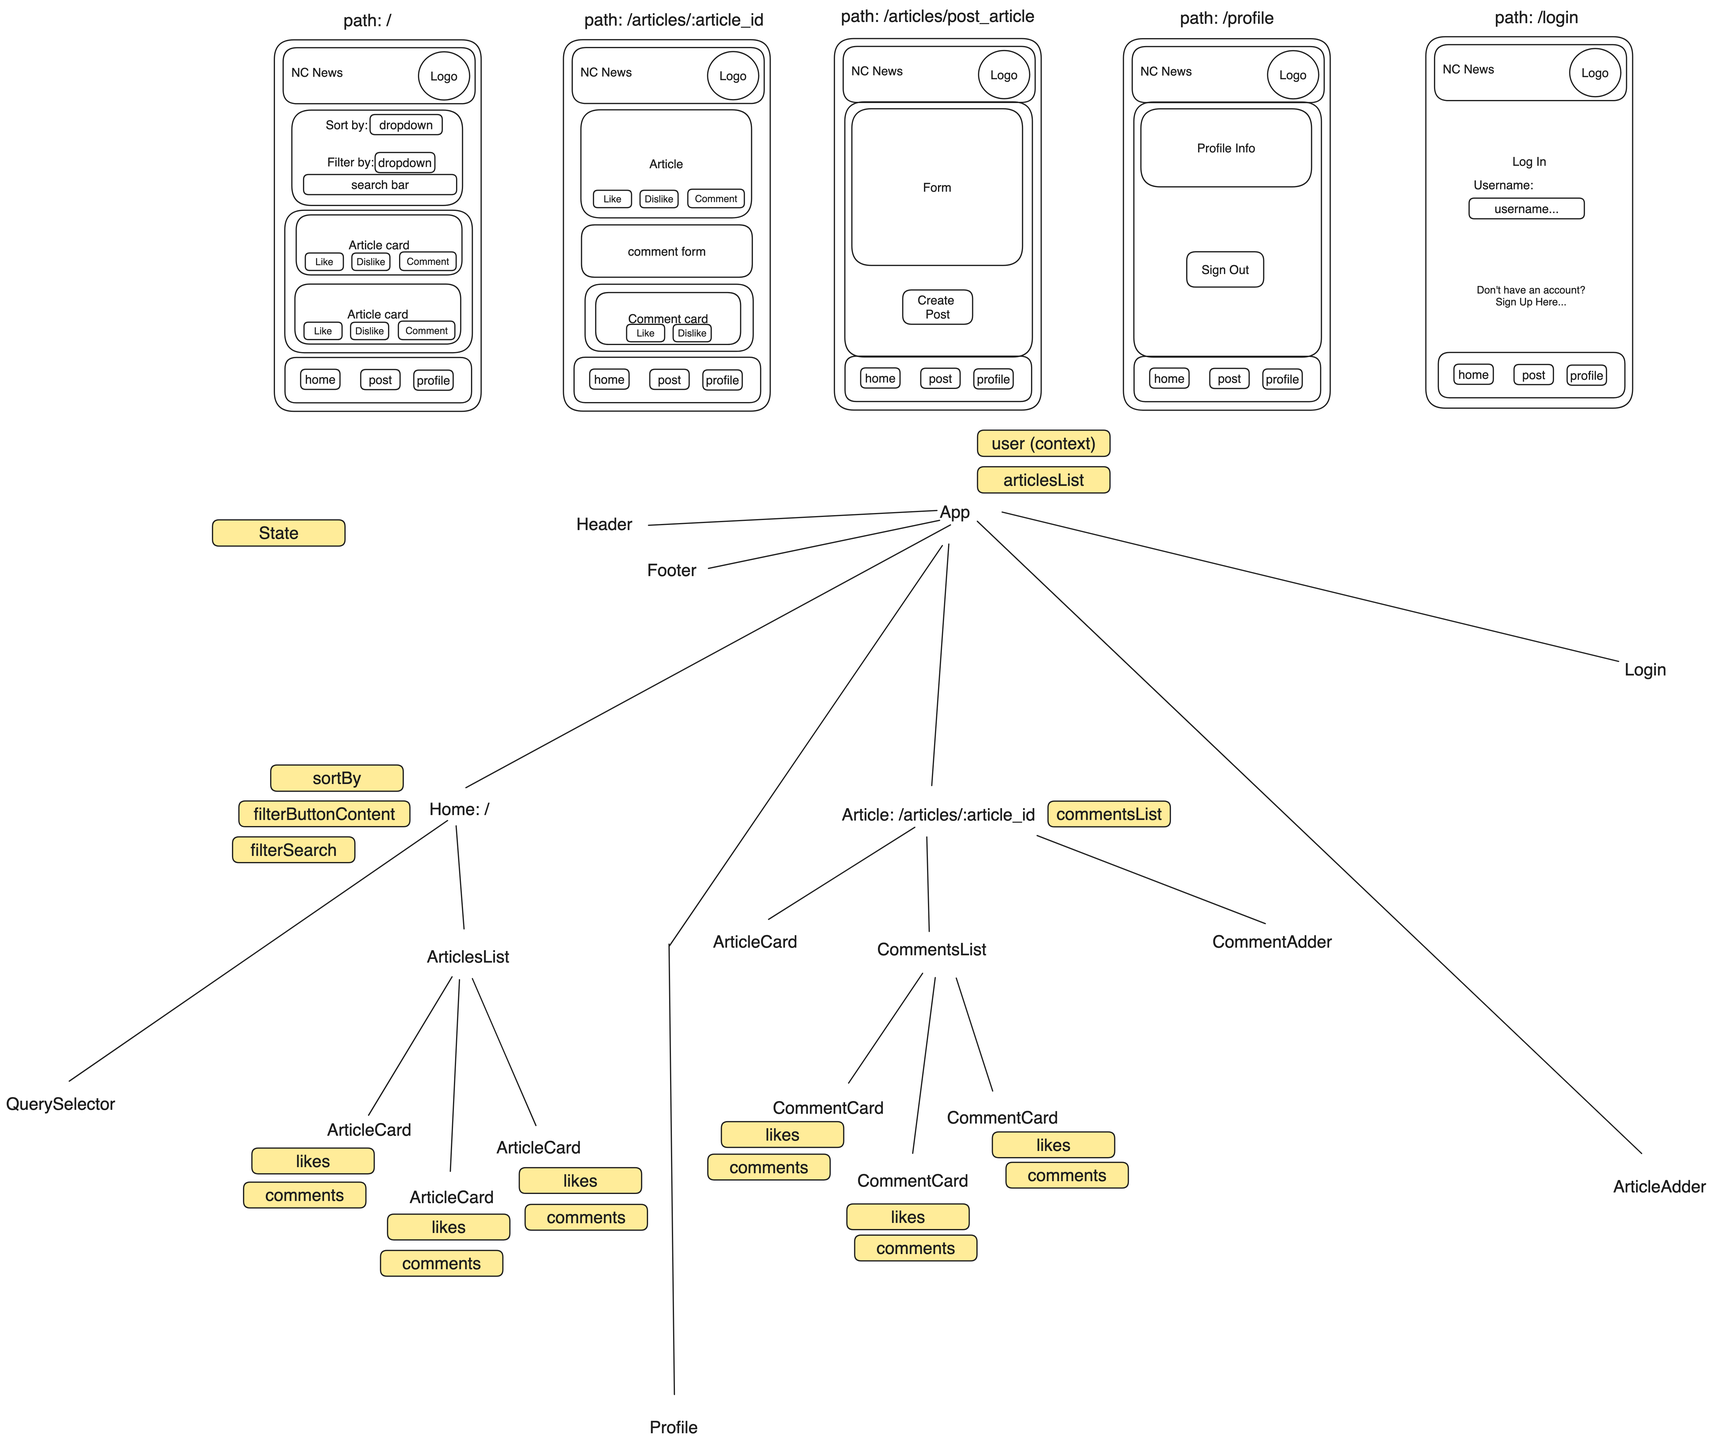
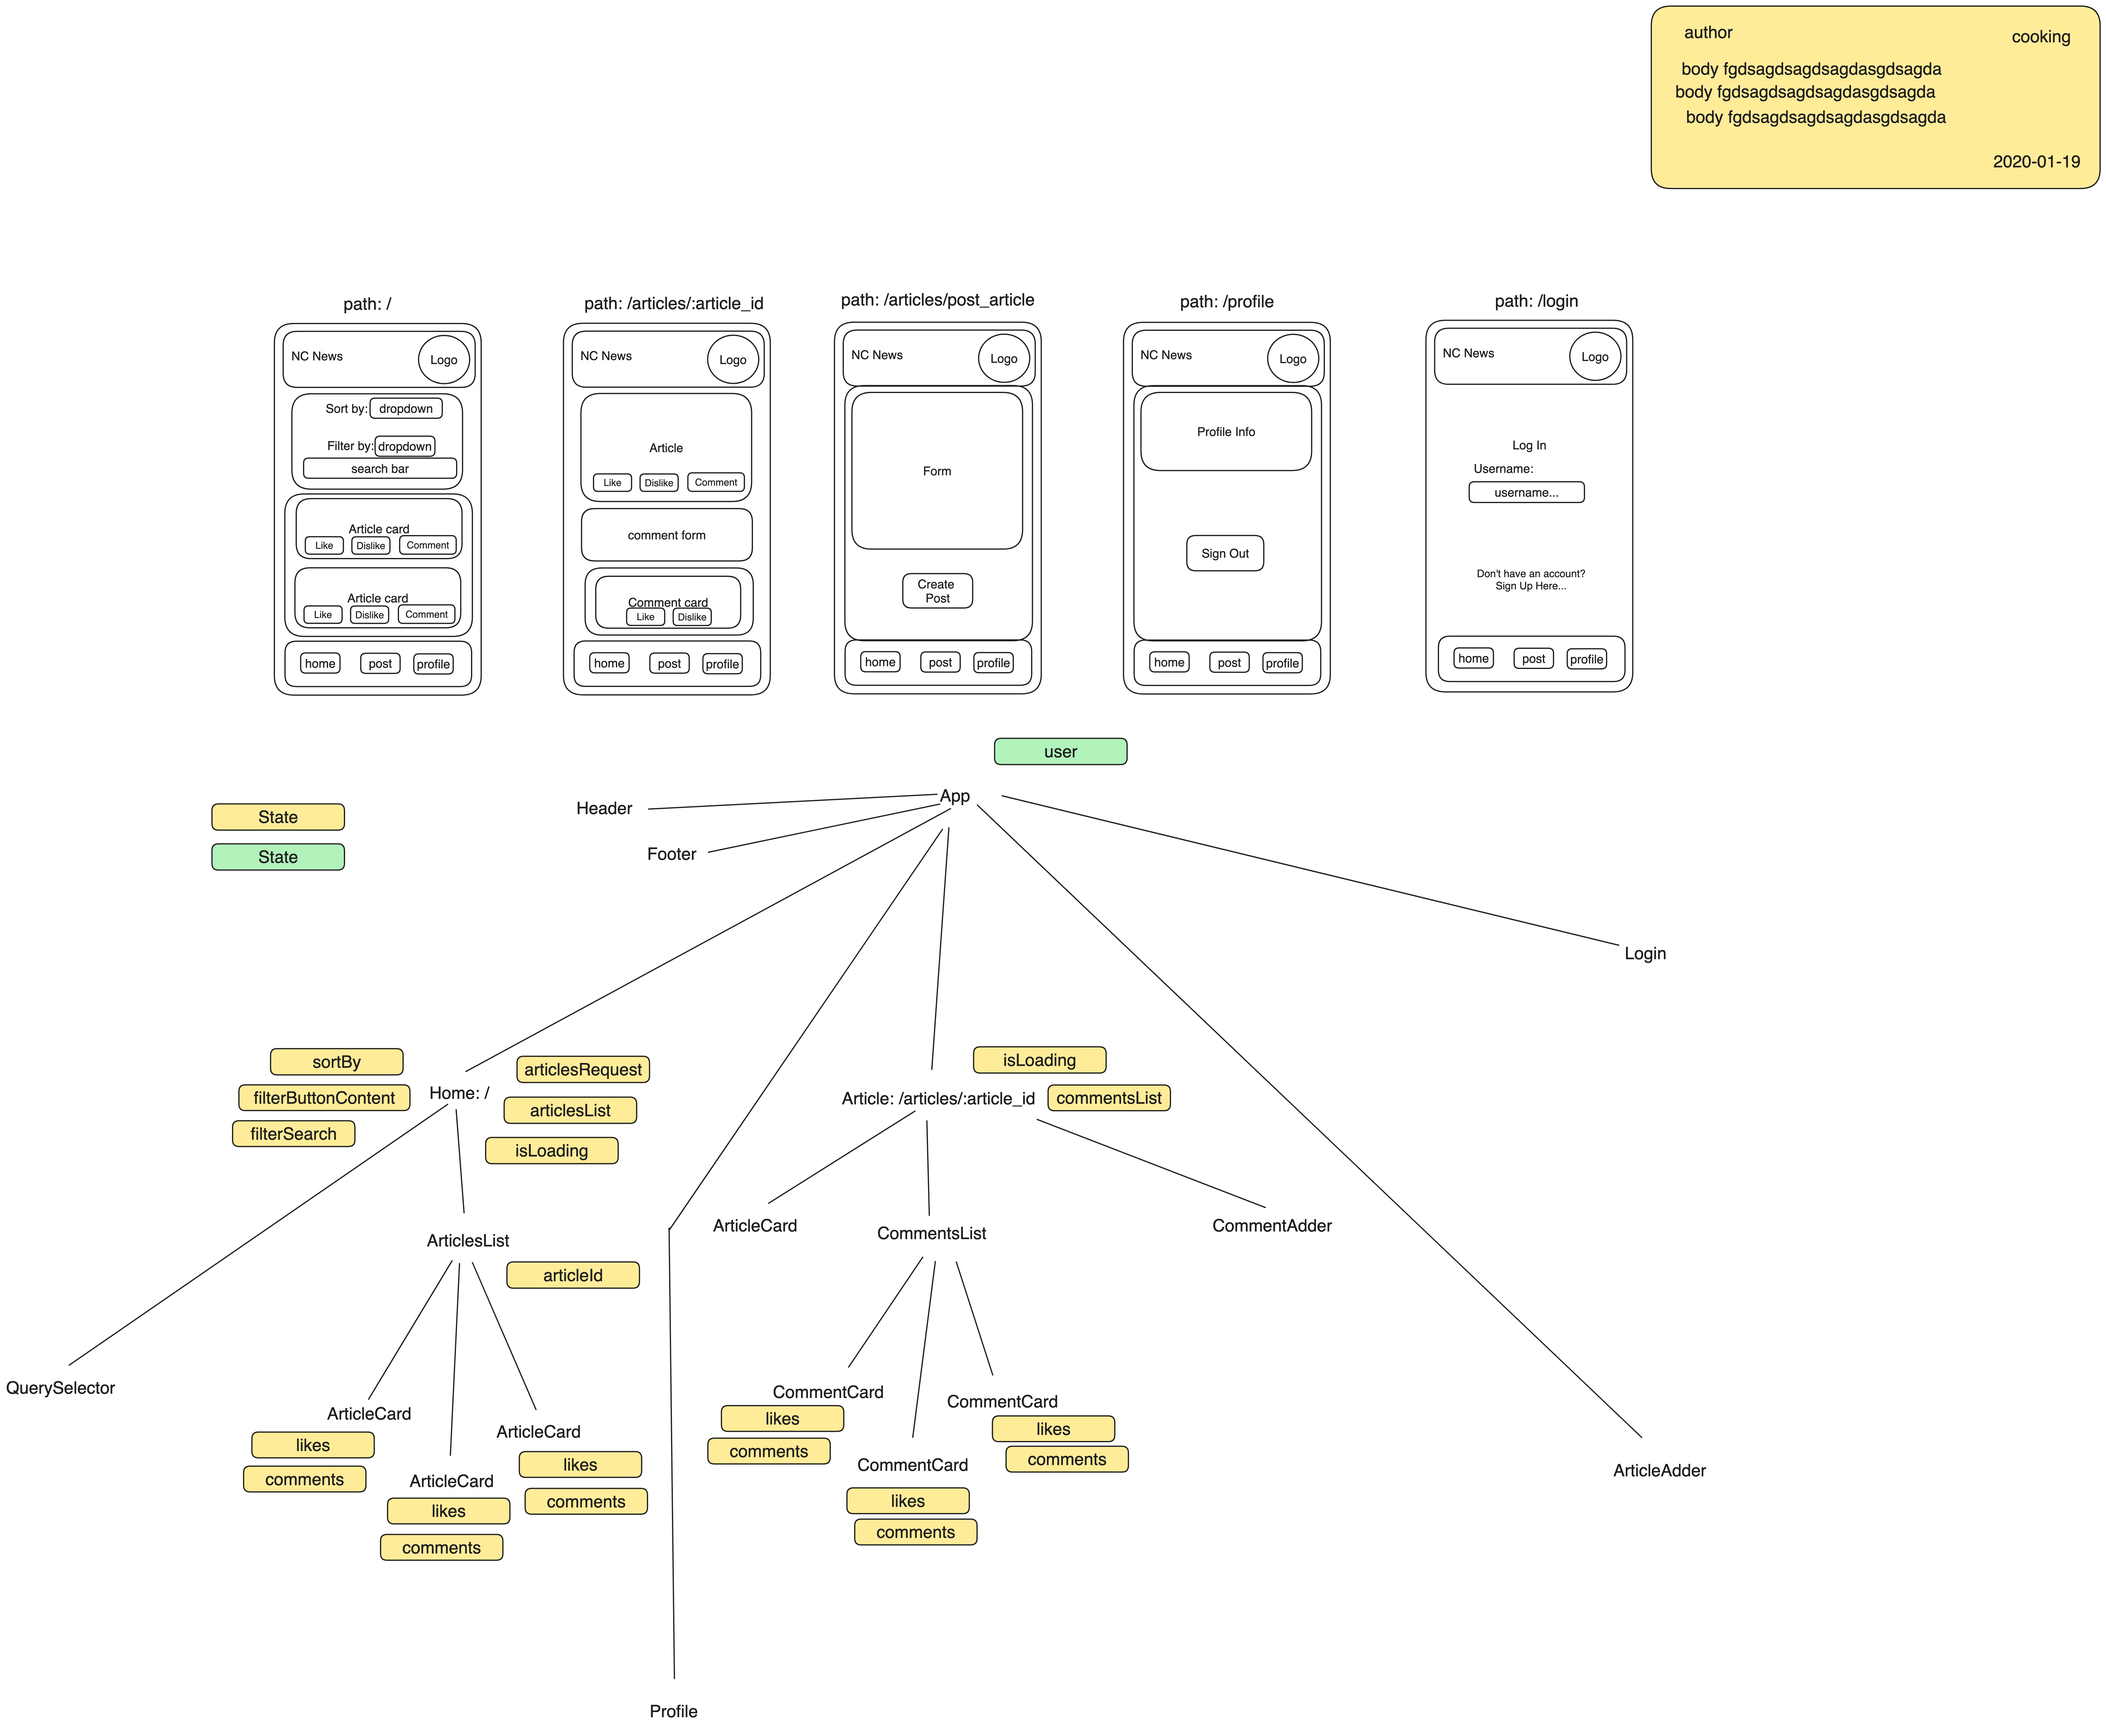
adds more query options

diff --git a/src/components/QuerySelector.jsx b/src/components/QuerySelector.jsx
@@ -1,16 +1,18 @@
 import { FontAwesomeIcon } from '@fortawesome/react-fontawesome'
 import { faCaretDown, faCaretUp } from '@fortawesome/free-solid-svg-icons'
-import { useState } from 'react';
+import { useState, useContext } from 'react';
+import { ErrorMessageContext } from "../contexts/ErrorContext";
+import { ErrorClassContext } from "../contexts/ErrorContext";
 
-
-function QuerySelector ({params}) {
+function QuerySelector ({setParams}) {
     const [sortDown, setSortDown] = useState(false)
     const [filterDown, setFilterDown] = useState(false)
-    
-    function sortRadioHandler (param) {
-        params.sort_by = param;
-        console.log(params, '<<<<<')
-    }
+    const [sortByValue, setSortByValue] = useState('created_at')
+    const [orderValue, setOrderValue] = useState('DESC')
+    const [filterField, setFilterField] = useState('')
+    const [filterValue, setFilterValue] = useState('')
+    const {errorMessage, setErrorMessage} = useContext(ErrorMessageContext)
+    const {errorClass, setErrorClass} = useContext(ErrorClassContext)
     
     return (
         <>
@@ -34,33 +36,109 @@ function QuerySelector ({params}) {
                     }
                 }}>Filter Articles {filterDown ? <FontAwesomeIcon icon={faCaretUp}></FontAwesomeIcon> : <FontAwesomeIcon icon={faCaretDown}></FontAwesomeIcon>}</p>
             </div>
+
             {sortDown ? 
             <div className='query-options-container'>
-                <p>Sort By:</p>
-                <div className='query-option'>
-                    <input type="radio" id='date-radio' name='sort-by-radio'/>
-                    <label htmlFor="date-radio">Date</label>
-                </div>
-                <div className='query-option'>
-                    <input type="radio" id='comment-radio' name='sort-by-radio'/>
-                    <label htmlFor="comment-radio">Number of comments</label>
-                </div>
-                <div className='query-option'>
-                    <input type="radio" id='votes-radio' name='sort-by-radio'/>
-                    <label htmlFor="votes-radio">Number of likes</label>
+                <div className='options-box'>
+                    <p>Sort By:</p>
+                    <div className='query-option'>
+                        <input type="radio" id='date-radio' name='sort-by-radio' checked={sortByValue==='created_at'} onClick={() => {
+                            setSortByValue('created_at');
+                        }}/>
+                        <label htmlFor="date-radio">Date</label>
+                    </div>
+                    <div className='query-option'>
+                        <input type="radio" id='comment-radio' name='sort-by-radio' checked={sortByValue==='comment_count'} onClick={() => {
+                            setSortByValue('comment_count');
+                        }}/>
+                        <label htmlFor="comment-radio">Number of comments</label>
+                    </div>
+                    <div className='query-option'>
+                        <input type="radio" id='votes-radio' name='sort-by-radio' checked={sortByValue==='votes'} onClick={() => {
+                            setSortByValue('votes');
+                        }}/>
+                        <label htmlFor="votes-radio">Number of likes</label>
+                    </div>
                 </div>
                 <hr />
-                <p>Order:</p>
-                <div className='query-option'>
-                    <input type="radio" id='ascending-radio' name='order-by-button'/>
-                    <label htmlFor="ascending-radio">Ascending</label>
+                <div className='options-box'>
+                    <p>Order:</p>
+                    <div className='query-option'>
+                        <input type="radio" id='ascending-radio' name='order-by-button' checked={orderValue === 'ASC'} onClick={() => setOrderValue('ASC')}/>
+                        <label htmlFor="ascending-radio">Ascending</label>
+                    </div>
+                    <div className='query-option'>
+                        <input type="radio" id='descending-radio' name='order-by-button' checked={orderValue === 'DESC'} onClick={() => {setOrderValue('DESC')}}/>
+                        <label htmlFor="descending-radio">Descending</label>
+                    </div>
                 </div>
-                <div className='query-option'>
-                    <input type="radio" id='descending-radio' name='order-by-button'/>
-                    <label htmlFor="descending-radio">Descending</label>
+                <button className='sign-button' onClick={(event) => {
+                    event.preventDefault();
+                    setParams({
+                        sort_by: sortByValue,
+                        order: orderValue,
+                        [filterField]: filterValue 
+                    })
+                }}>Edit Search</button>
+            </div>
+            : null}
+
+            {filterDown ?
+            <div className='query-options-container'>
+                <div className='options-box'>
+                    <p>Filter By:</p>
+                    <div className='query-option'>
+                        <input type="radio" id='topic-radio' name='filter-button' checked={filterField === 'topic'} onClick={() => {setFilterField('topic')}}/>
+                        <label htmlFor="topic-radio">Topic</label>
+                    </div>
+                    <div className='query-option'>
+                        <input type="radio" id='author-radio' name='filter-button' checked={filterField === 'author'} onClick={() => {setFilterField('author')}}/>
+                        <label htmlFor="author-radio">Author</label>
+                    </div>
+                    <div className='query-option'>
+                        <input type="radio" id='title-radio' name='filter-button' checked={filterField === 'title'} onClick={() => {setFilterField('title')}}/>
+                        <label htmlFor="title-radio">Title</label>
+                    </div>
                 </div>
             </div>
             : null}
+
+            {filterField && filterDown ?
+            <div className='query-options-container'>
+                <div className='options-box-text'>
+                    <p>Filter by {filterField}:</p>
+                    <input type="text" id='filter-value' value={filterValue} placeholder='What would you like to filter by?' onChange={(event) => {
+                        setFilterValue(event.target.value)
+                    }}/>
+                </div>
+                <button className='sign-button' onClick={(event) => {
+                    event.preventDefault();
+                    if (filterField && !filterValue) {
+                        setErrorMessage(`Please enter a valid ${filterField}`)
+                        setErrorClass("error-container show-error")
+                        setTimeout(() => {
+                            setErrorClass("error-container hide-error")
+                        } ,10000)
+                    }
+                    else {
+                        setParams({
+                            sort_by: sortByValue,
+                            order: orderValue,
+                            [filterField]: filterValue 
+                        })
+                    }
+                }}>Edit Search</button>
+                <button className='sign-button remove-filter-button' onClick={() => {
+                    setFilterField('')
+                    setFilterValue('')
+                    setParams({
+                        sort_by: sortByValue,
+                        order: orderValue
+                    })
+                }}>Remove Filter</button>
+            </div>
+            : null
+            }
         </>
     )
 }

diff --git a/src/App.css b/src/App.css
@@ -18,7 +18,7 @@ body {
     font-size: 1.5em;
 }
 
-.loading {
+.notification {
     display: block;
     text-align: center;
     margin: 10px;
@@ -249,7 +249,7 @@ footer {
     width: 300px;
     display: flex;
     justify-content: space-between;
-    margin: 0 auto 10px auto;
+    margin: auto;
     align-items: center;
 }
 
@@ -257,29 +257,50 @@ footer {
     border: 2px white solid;
     border-radius: 15px;
     width: 387px;
+    margin: 20px auto 0;
+    padding: 5px 0;
+}
+
+.query-options-container button {
+    margin: 10px auto;
+}
+
+.query-options-container hr {
+    margin: 10px 0;
+}
+
+.options-box {
+    width: 55%;
+    margin: auto;
+}
+
+.options-box p {
+    text-align: center;
+}
+
+.options-box * {
+    padding: 5px 0;
+}
+
+.query-option input {
+    margin-right: 10px;
+}
+
+.options-box-text * {
+    padding: 5px 0;
+}
+
+.options-box-text {
+    width: 70%;
     margin: auto;
     text-align: center;
 }
 
-.query-options-container hr {
-    margin-top: 10px;
-}
-
-.query-option {
-    width: 60%;
-    margin: 10px auto;
-    display: flex;
-    justify-content: space-between;
-    align-items: center;
-}
-
-.query-options-container p {
-    padding: 10px 0;
-    border-bottom: 2px solid white;
-    width: 50%;
-    margin: auto;
-}
-
-.query-option label {
-    margin: auto;
+.options-box-text input {
+    background-color: #fdfcf7;
+    color: black;
+    padding: 10px;
+    border-radius: 15px;
+    width: 100%;
+    text-align: center;
 }

diff --git a/src/components/ArticlesList.jsx b/src/components/ArticlesList.jsx
@@ -1,13 +1,15 @@
 import ArticleCard from "./ArticleCard"
 import QuerySelector from './QuerySelector';
 
-function ArticlesList ({articlesList, isLoading, params}) {
+function ArticlesList ({articlesList, isLoading, setParams}) {
     if(isLoading) {
-        return <p className="loading">Loading...</p>
+        return <p className="notification">Loading...</p>
     }
+    
     return (
         <>
-            <QuerySelector params={params}/>
+            <QuerySelector setParams={setParams}/>
+            {articlesList.length ?
             <ul>
                 {articlesList.map(article => {
                     return <li key={article.article_id}>
@@ -15,6 +17,7 @@ function ArticlesList ({articlesList, isLoading, params}) {
                     </li>
                 })}
             </ul>
+            : <p className="notification">Something went wrong!</p>}
         </>
     )
 }

diff --git a/src/components/Home.jsx b/src/components/Home.jsx
@@ -7,7 +7,7 @@ function Home () {
     const [articlesRequest, setArticlesRequest] = useState('https://jay-mckerracher-nc-news.onrender.com/api/articles')
     const [articlesList, setArticlesList] = useState([])
     const [isLoading, setIsLoading] = useState(true)
-    const params = {}
+    const [params, setParams] = useState({})
 
     useEffect(() => {
         getArticles(articlesRequest, params)
@@ -15,10 +15,14 @@ function Home () {
                 setArticlesList(body)
                 setIsLoading(false)
         })
+        .catch(() => {
+            setArticlesList([])
+            setIsLoading(false)
+        })
     }, [articlesRequest, params])
 
     return (
-        <ArticlesList articlesList={articlesList} isLoading={isLoading} params={params}/>
+        <ArticlesList articlesList={articlesList} isLoading={isLoading} setParams={setParams} />
     )
 }
 

diff --git a/src/utils/api.js b/src/utils/api.js
@@ -2,7 +2,9 @@ import axios from "axios"
 
 function getArticles (url, params) {
     return axios
-        .get(url)
+        .get(url, {
+            params: params
+        })
         .then(res => {
             return res.data.articles
         })
